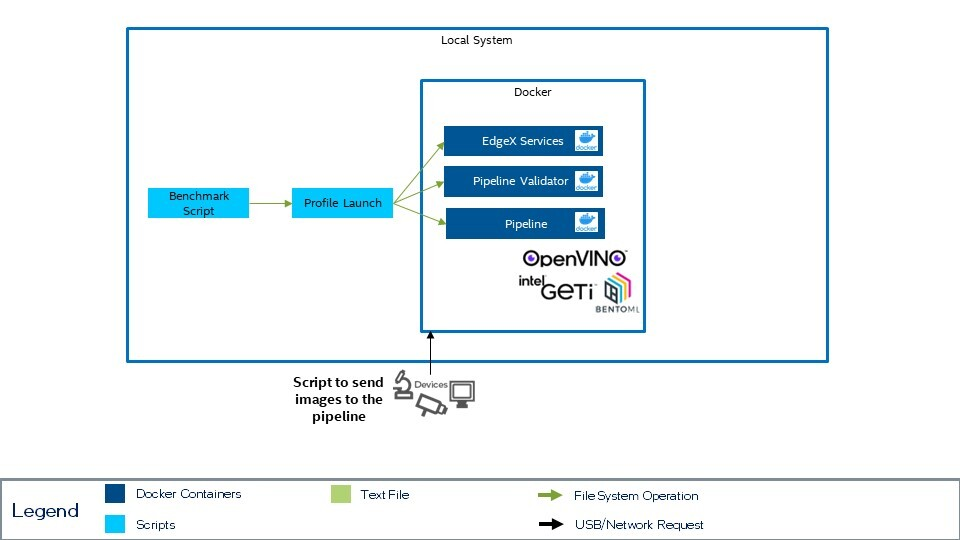
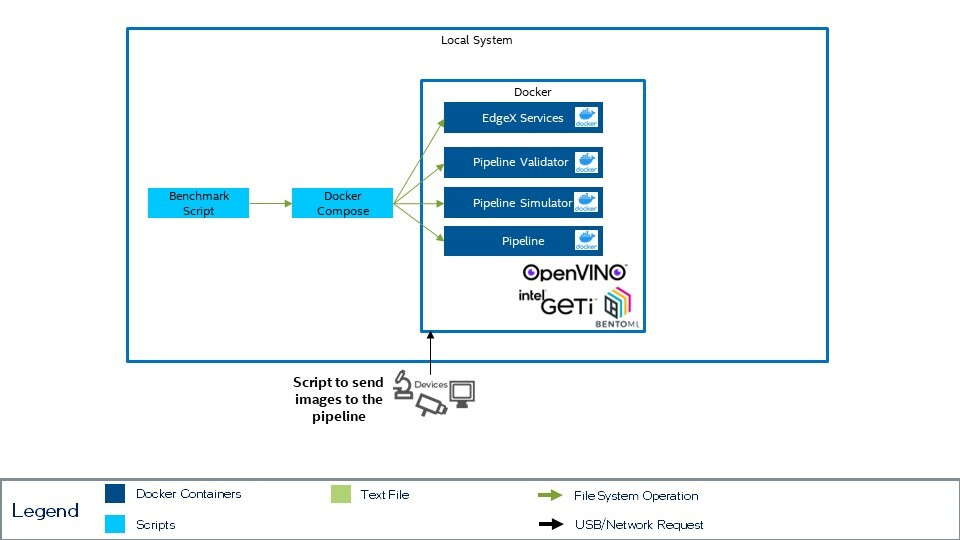
docs: update integration plan based on planning discussion

Changed region(s): [[0.3125, 0.1778, 0.6562, 0.6222]]

diff --git a/docs_src/Architecture/v3.0.0/aicsd-integration.md b/docs_src/Architecture/v3.0.0/aicsd-integration.md
@@ -32,9 +32,12 @@ This feature would:
 
 In the initial phases, the solution can be pulled in as just the pieces surrounding the pipeline validation. In order to do this, the [Pipeline Validator](https://intel.github.io/AiCSD/services/as-pipeline-val.html) service can be pulled in. This service 
 provides the appropriate endpoints and components necessary to call any pipeline built for this system. In the simplest case, the Pipeline Validator service could be used with the 
-Pipeline Simulator service without the need to add additional models. In order to call these services
-or provide enough data to run benchmarking, it would be necessary to add a script
-that calls the endpoint to launch the pipeline.
+Pipeline Simulator service without the need to add additional models. The Pipeline
+Simulator will be modified to use go gRPC to call an OVMS inferencing pipeline.
+In order to send information to the services, it would be necessary to add a script
+that calls the endpoint to launch the pipeline. When integrating with the benchmarking 
+script, the AiCSD services will be started using the necessary docker compose files. 
+This will ensure that all the services are started under the same Docker network. 
 
 [![AiCSD Integration - Crawl](./images/aicsd-initial-integration.jpg)](./images/aicsd-initial-integration.jpg)
 
